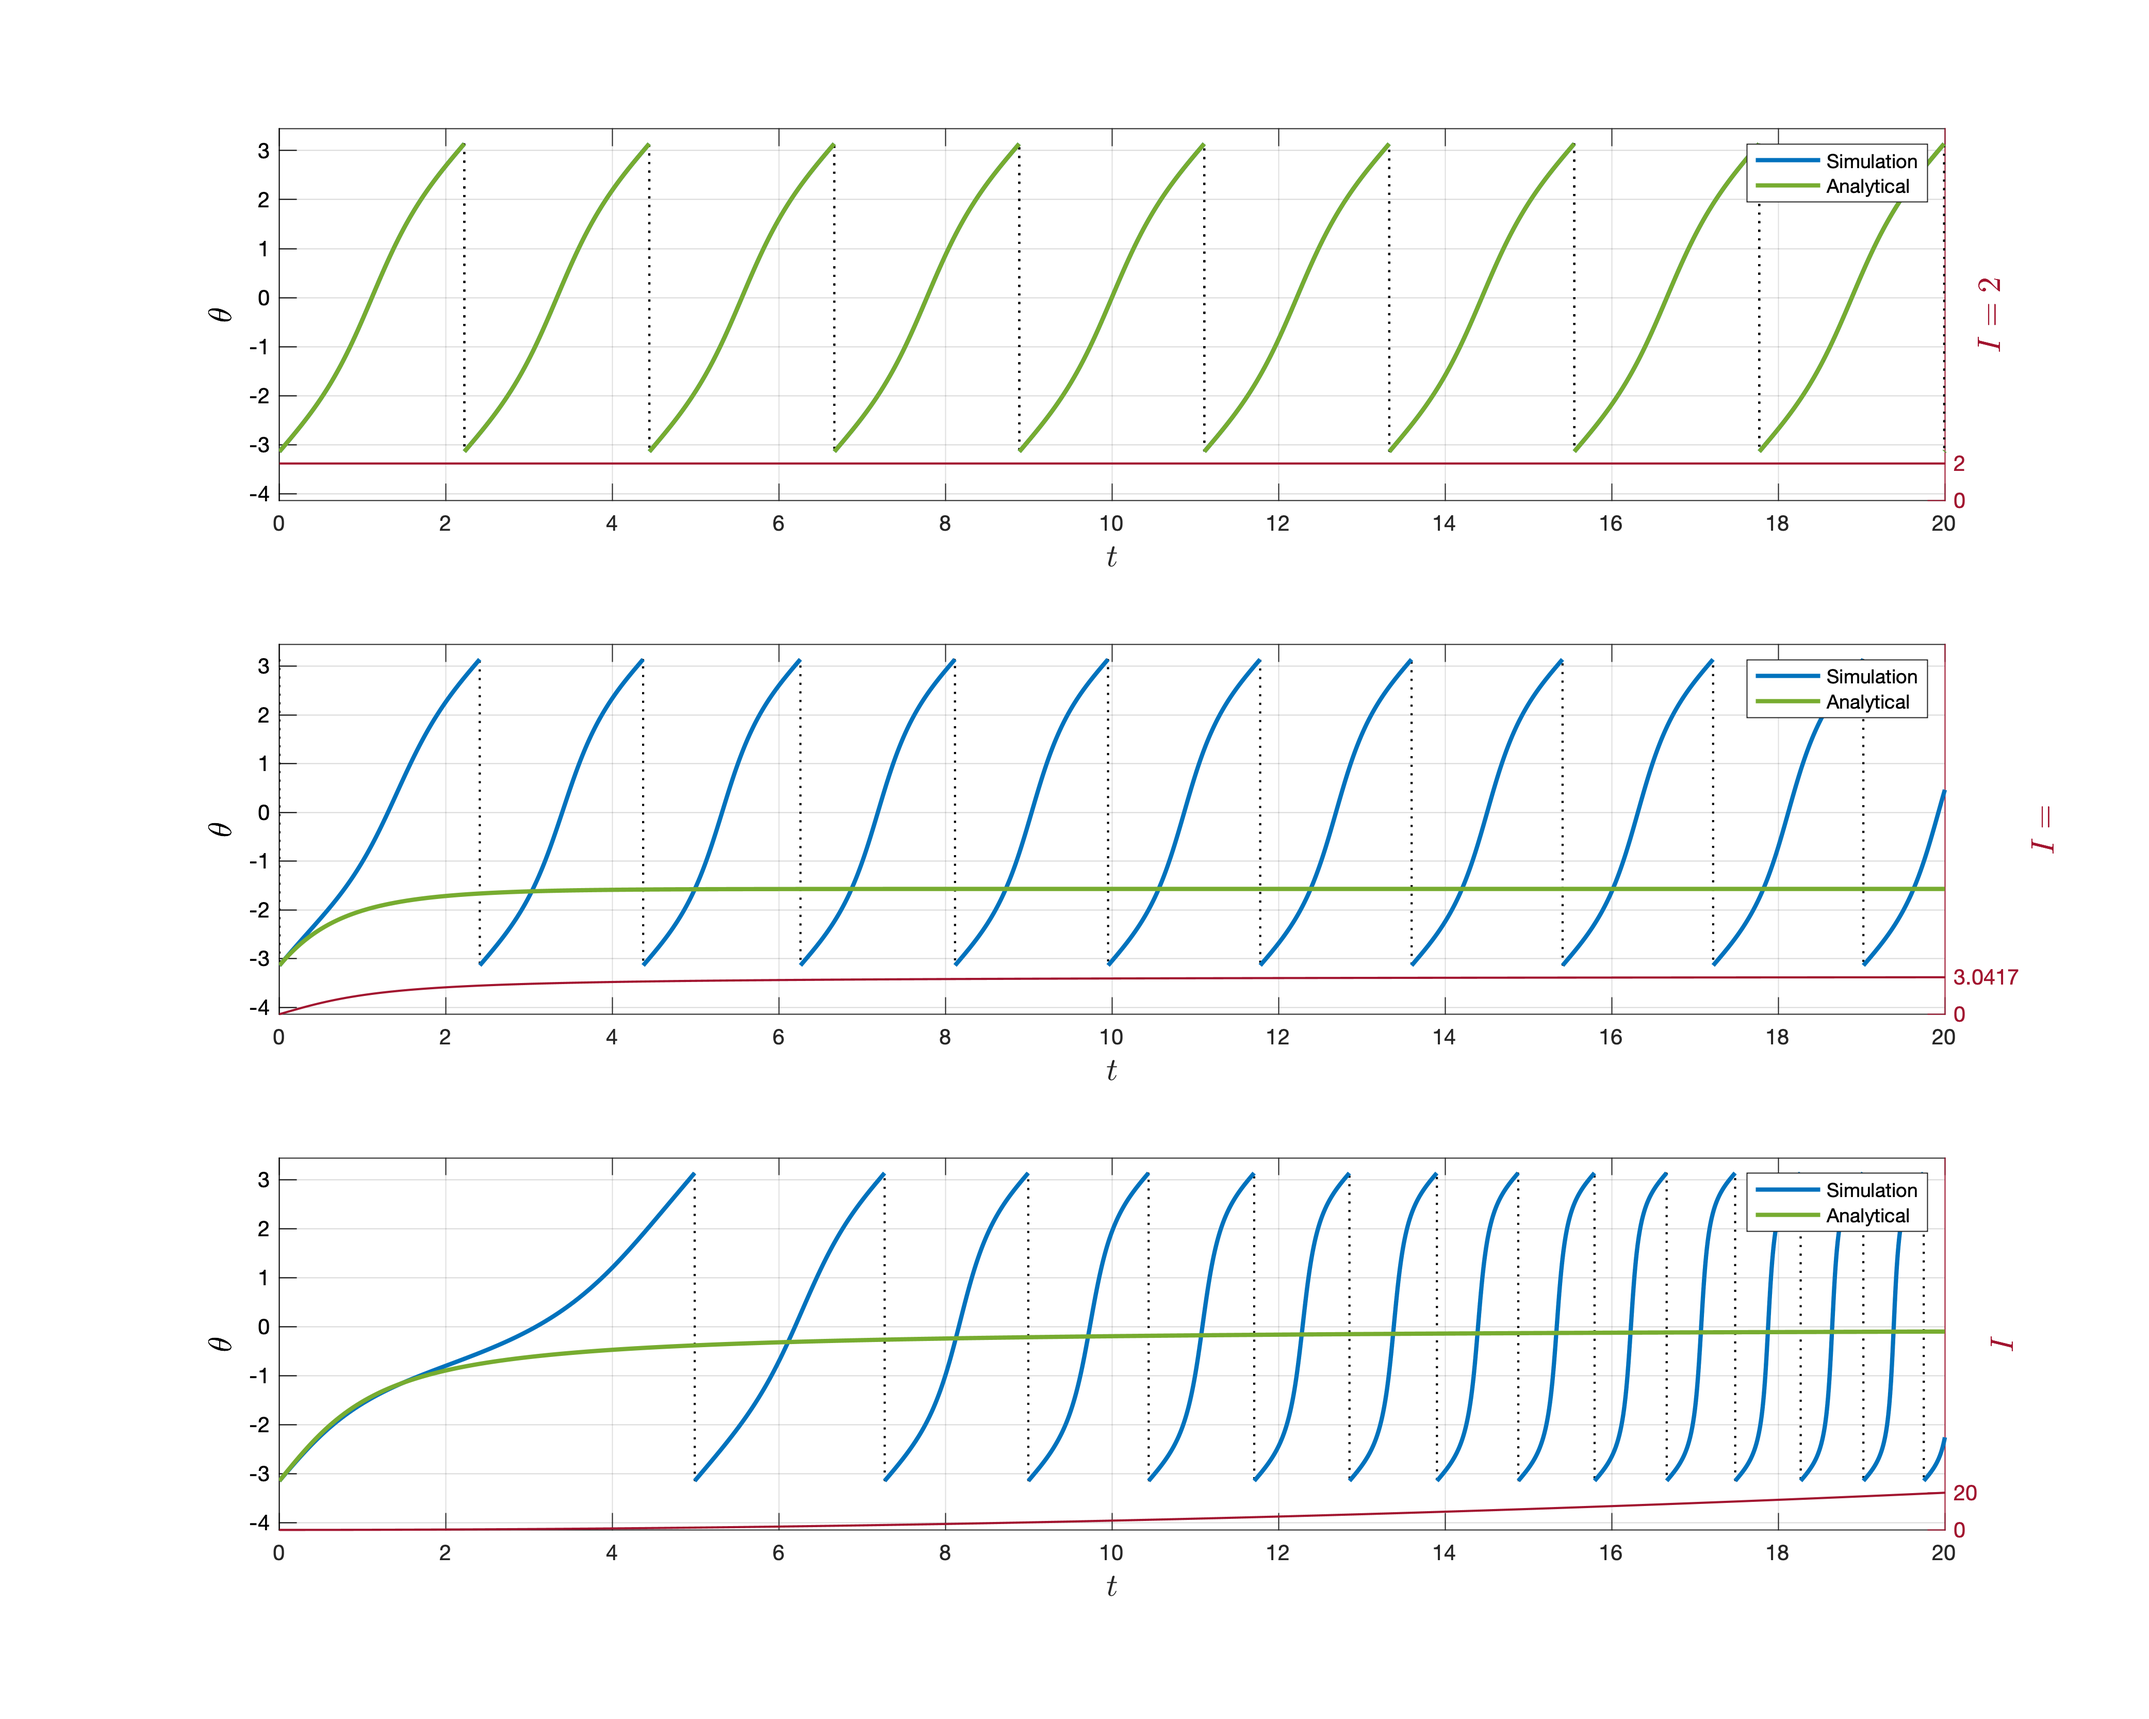
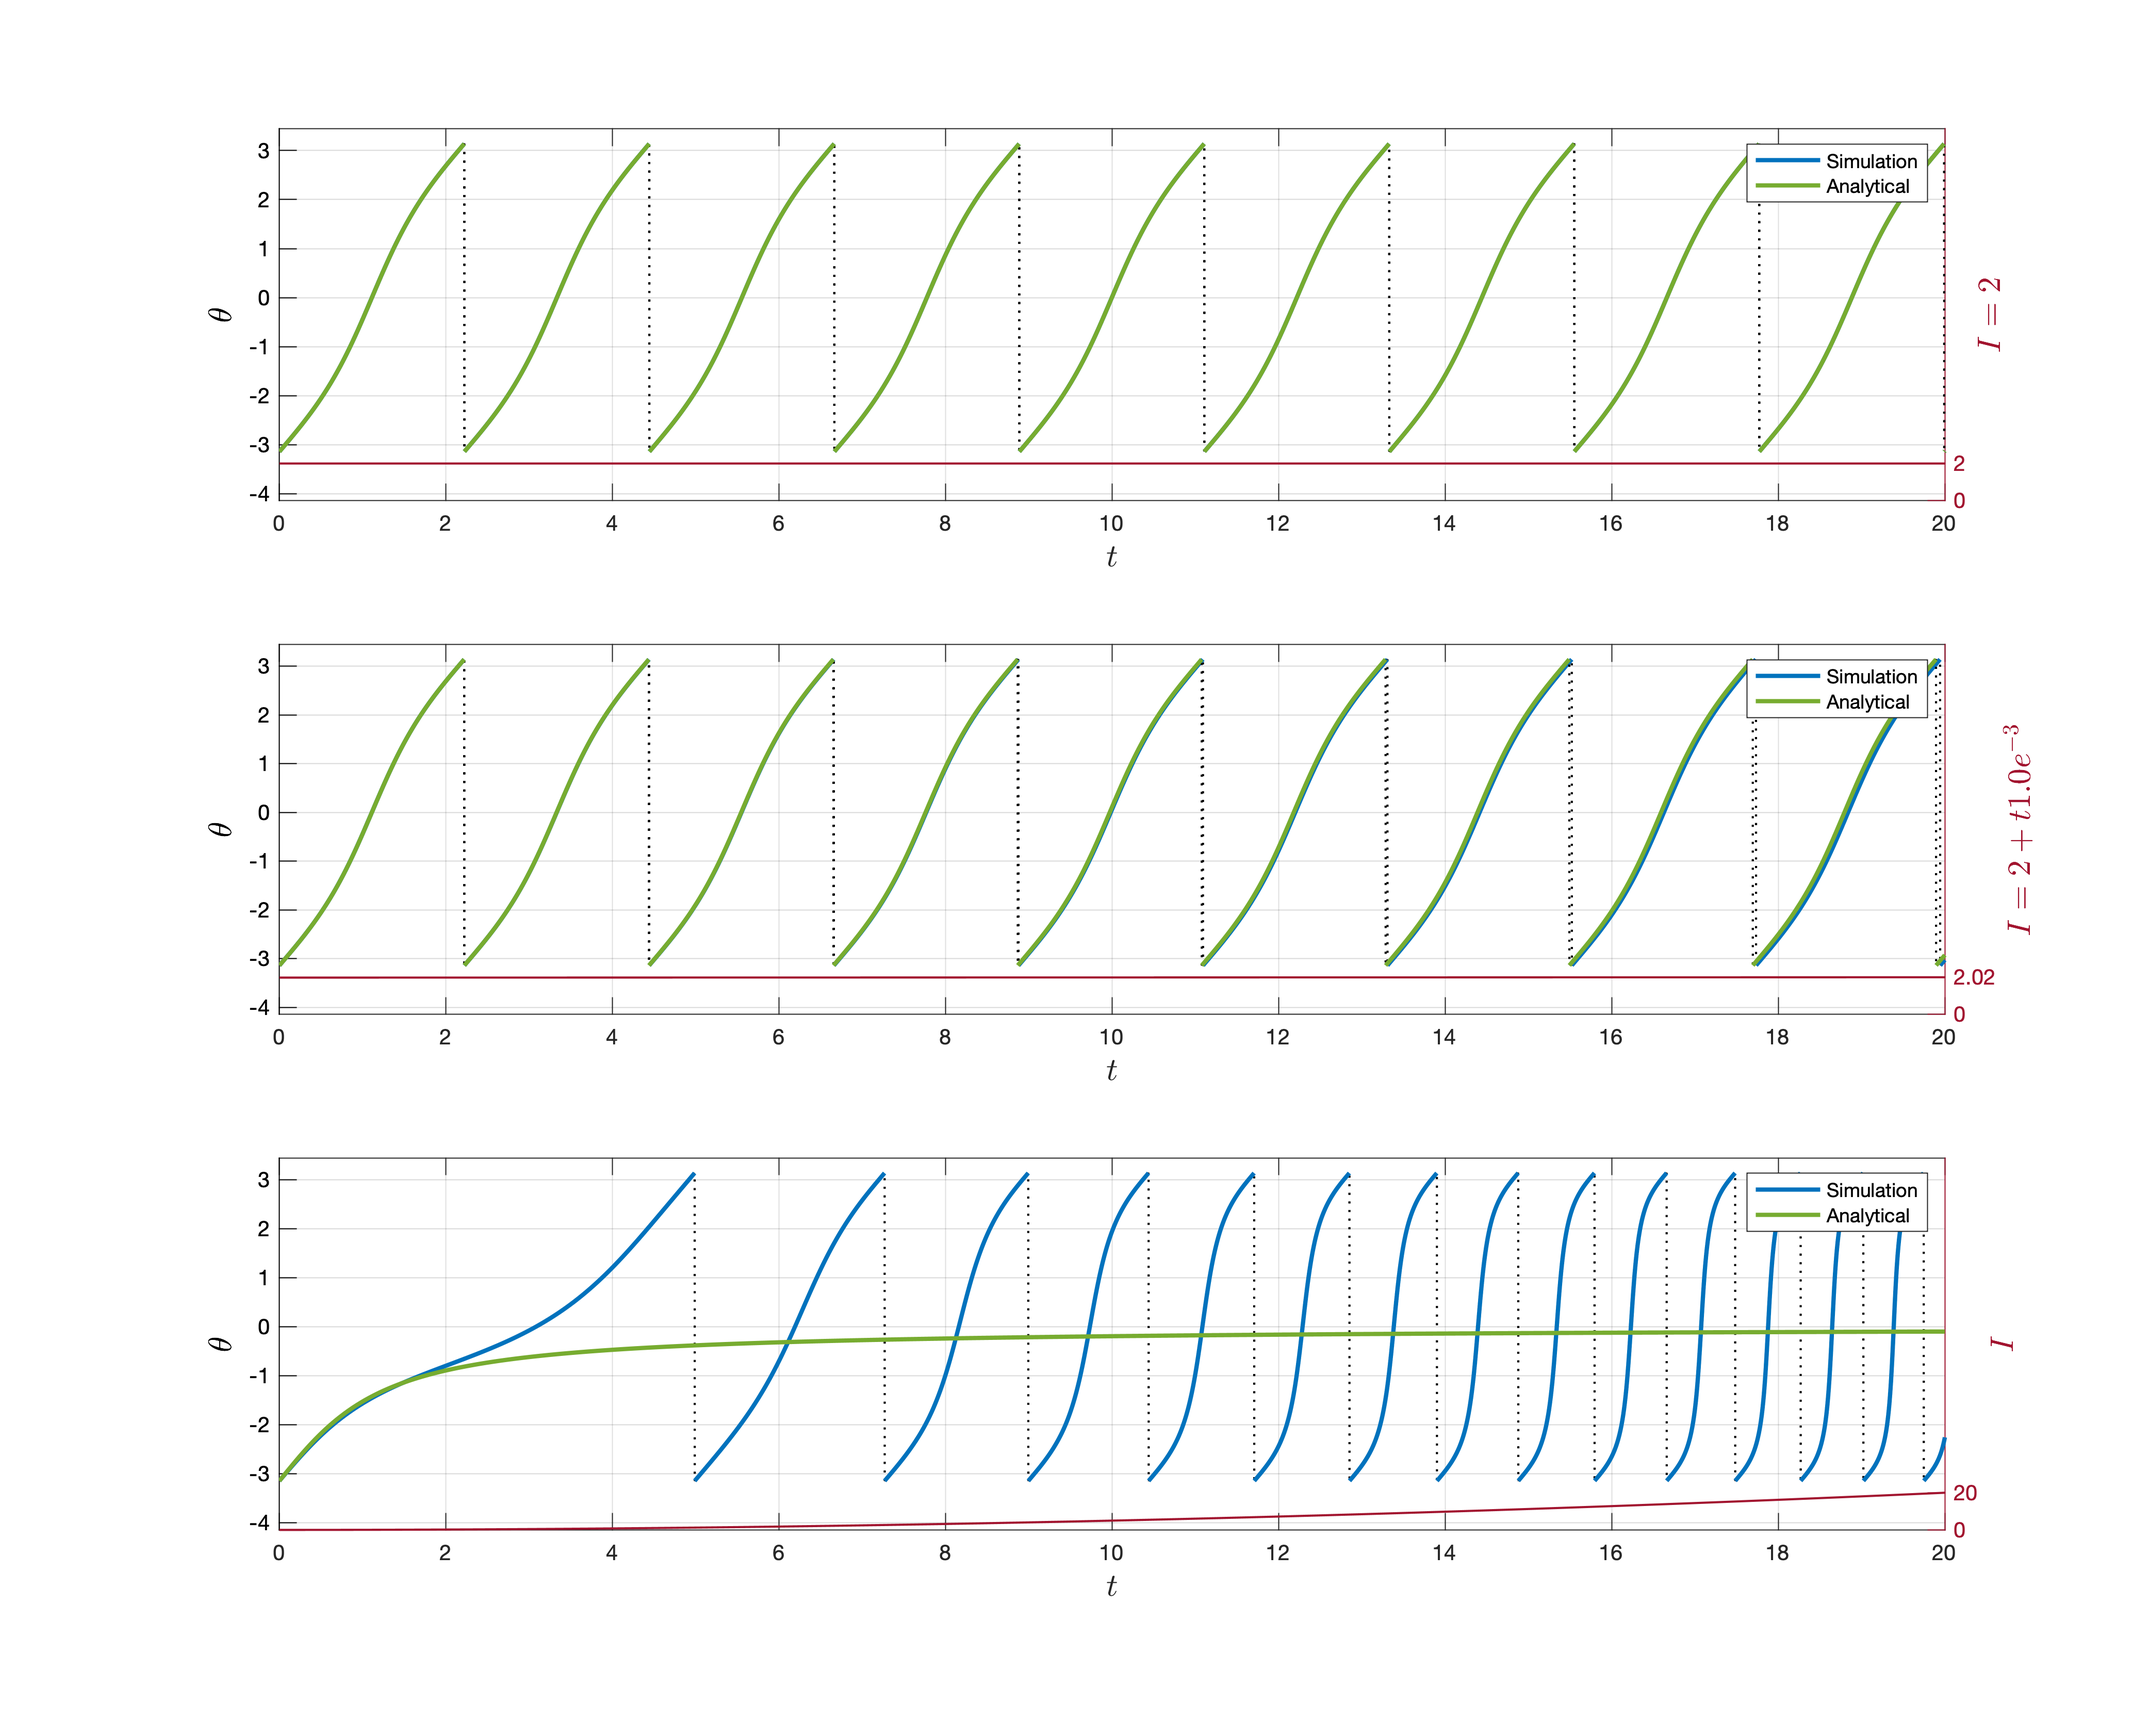
Added all the ,-material of today

diff --git a/Theta Neuron Model/ModelResponseToCurrent.m b/Theta Neuron Model/ModelResponseToCurrent.m
@@ -97,23 +97,32 @@ print(fexcite, '../Figures/ThetaNeuronResponseToCurrent.png', '-dpng', '-r300')
 %% Investigate the frequency - current curve:
 % We know that T = pi/sqrt(I)
 
-fI = figure('Renderer', 'painters', 'Position', [50 800 500 200]); hold on; box on;
-
+fI = figure('Renderer', 'painters', 'Position', [1500 800 500 200]); hold on; box on;
 I = @fI_current;
+h = 0.01;
 
-tend = 50;
+tend = 10000;
+
 [t, thetas] = DOPRI_singleneuron(F, 0, tend, -pi, h, I);
 NaNthetas = spikesNaN(thetas);
 drawthetas = 1 + cos(thetas);
 
+% plot(t, NaNthetas, 'LineWidth', 2, 'HandleVisibility','off');
+% Theoratical result:
+Idraw = linspace(tnow + 1.0e-3,10, 200);
+plot(Idraw, pi./sqrt(Idraw), 'LineWidth', 2);
+
+% Measurements:
 idx = [1, find(isnan(NaNthetas))];
 NaNnum = length(idx)-1;
 frequencies = diff(t(idx));
 plot(I(t(idx(2:end))), frequencies, 'LineWidth', 2);
-plot(I(t(idx(2:end))), pi./sqrt(I(t(idx(2:end)))), 'LineWidth', 2);
+
 xlabel('$I$','Interpreter','latex', 'FontSize', labelfont)
 ylabel('$T$','Interpreter','latex', 'FontSize', labelfont)
-legend('$\hat{T}$','$\frac{\pi}{\sqrt{I}}$', 'Interpreter','latex', 'FontSize', labelfont)
+legend('$\frac{\pi}{\sqrt{I}}$', '$\hat{T}$', 'Interpreter','latex', 'FontSize', labelfont)
+
+set(gca, 'YScale', 'log', 'XScale', 'log')
 
 print(fI, '../Figures/ThetaNeuronResponseToCurrentPeriod.png', '-dpng', '-r300')
 
@@ -140,5 +149,5 @@ function I = burstcurrent(t)
 end
 
 function I = fI_current(t)
-    I = t;
+    I = 1.0e-6.*t.^(1.7);
 end

diff --git a/Theta Neuron Model/ThetaModelAnalyticalSolution.m b/Theta Neuron Model/ThetaModelAnalyticalSolution.m
@@ -56,7 +56,7 @@ I = @linearcurrent;
 
 [t, thetas] = DOPRI_singleneuron(F, tnow, tend, IC, h, I);
 drawthetas = spikesNaN(thetas);
-realthetas = 2*atan(exp(t)./(1 - exp(t)));
+realthetas = 2*atan(-sqrt(I(t)).*cot(t.*sqrt(I(t))));
 
 imrow(2) = subplot(m,n,2); hold on; box on;
 
@@ -74,7 +74,7 @@ xlabel('$t$','Interpreter','latex', 'FontSize', labelfont)
 yyaxis right
 maxy = max(I(t));
 plot(t, I(t), '-', 'LineWidth', 1, 'color', '#A2142F');
-ylabel('$I = $','Interpreter','latex', 'FontSize', labelfont);
+ylabel('$I = 2 + t 1.0e^{-3}$','Interpreter','latex', 'FontSize', labelfont);
 ax = gca; ax.YAxis(1).Color = 'k'; ax.YAxis(2).Color = '#A2142F';
 set(gca,'YTick', 0:maxy:maxy, 'YLim', [0, maxy*10]);
 
@@ -111,7 +111,6 @@ set(gca,'YTick', 0:maxy:maxy, 'YLim', [0, maxy*10]);
 legend('Simulation', 'Analytical');
 
 
-
 %% Save the figure:
 print(fanalytic, '../Figures/ThetaNeuronAnalyticalSolution.png', '-dpng', '-r300')
 
@@ -123,7 +122,7 @@ function I = simplecurrent(t)
 end
 
 function I = linearcurrent(t)
-    I = t;
+    I = 2 + 1.0e-3.*t;
 end
 
 function I = paraboliccurrent(t)
@@ -131,5 +130,5 @@ function I = paraboliccurrent(t)
 end
 
 function I = sinecurrent(t)
-    I = 1.1 + sin(t);
+    I = 1.1 + sin(t./100);
 end
